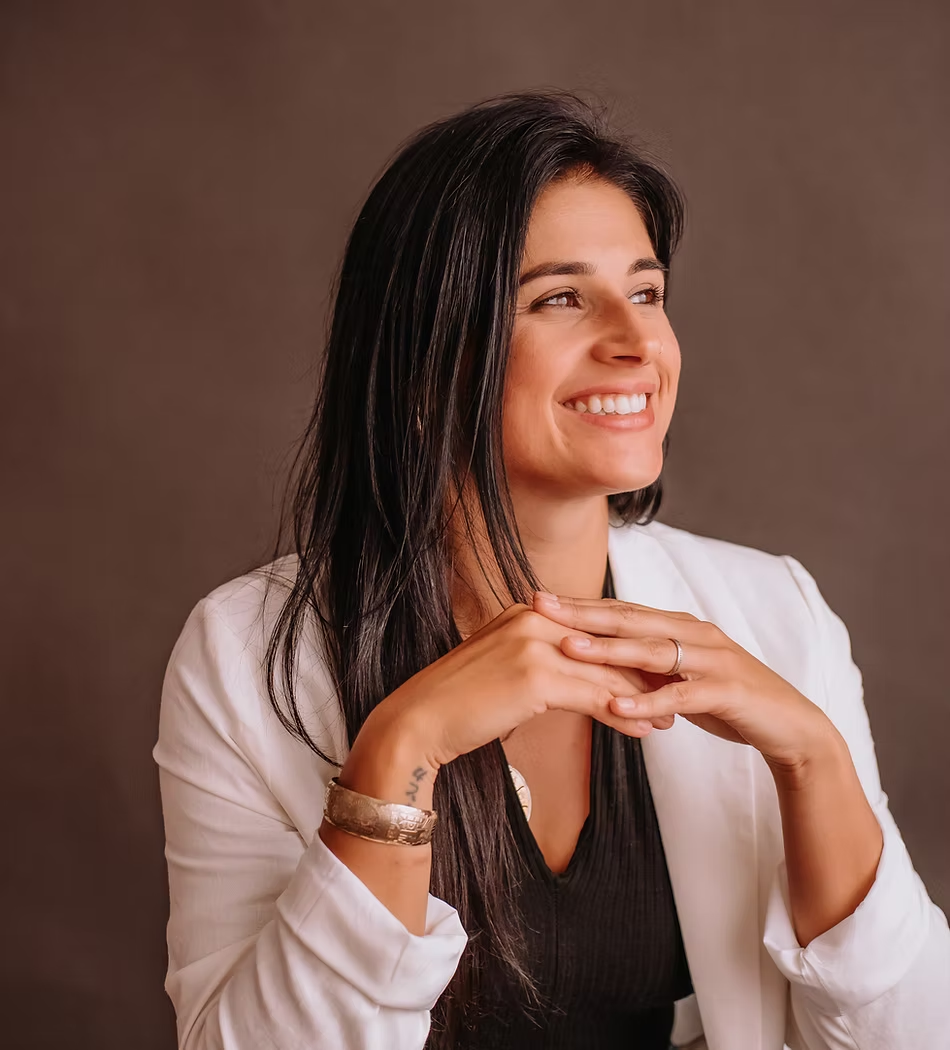
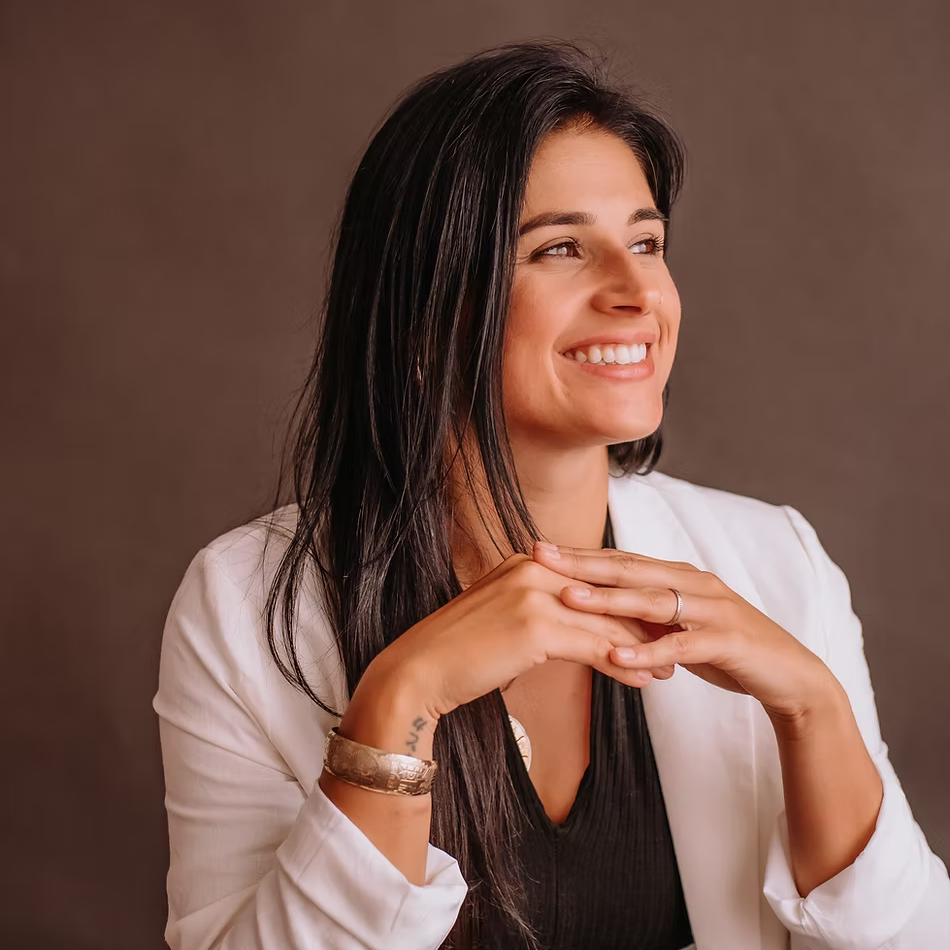
ajuste imagem

diff --git a/src/app/pages/about/about.scss b/src/app/pages/about/about.scss
@@ -47,7 +47,7 @@
     margin-bottom: 0.5rem;
   }
   .founder-image {
-    max-width: 350px;
+    max-width: 350px; //arrumarrrrrrr
     border: 8px solid #fff;
   }
   .founder-subtitle {
